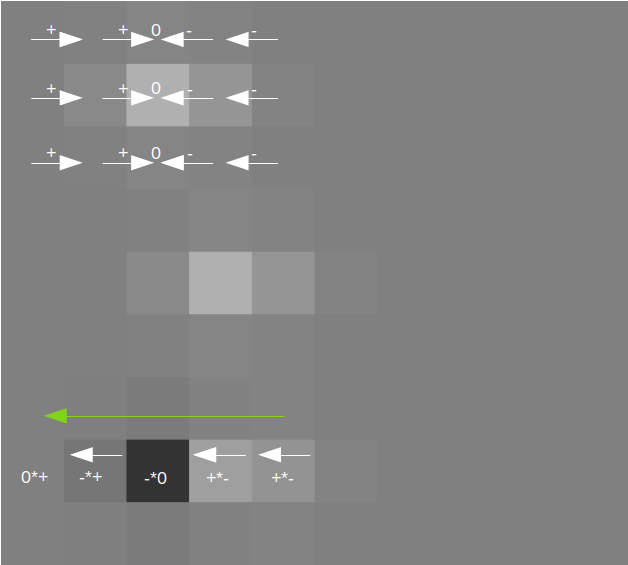
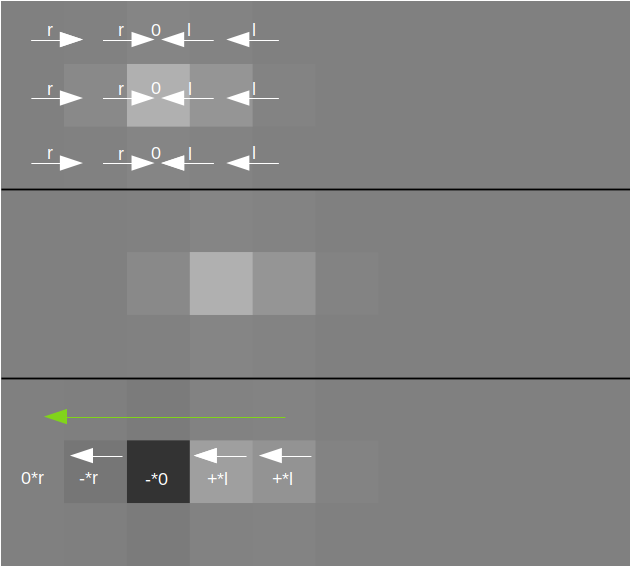
doc: update optical flow

diff --git a/doc/doc.tex b/doc/doc.tex
@@ -339,29 +339,42 @@ Lets assume we have an image I1 at time t-1 and an image I2 at time t. We know t
 
 Lucas Kanade Optical Flow tries to answer where a point moves between two images as shown in figure \ref{fig:optical_flow}. In the simplest case it just tells us where a certain pixel was in the image before and where it is now. It does that in an efficient way by using intensity gradients. This section describes how this works in an intuitive but simplified way while the next section will describe it in a more mathematical way.\\
 Let's assume the simplest scenario where we can only move in one direction (left or right). Figure \ref{fig:optical_flow_intuitive} shows this simple scenario. Let's first focus on the case where we have a small movement (a). We first calculate the intensity gradients in the template (first row). Then we calculate the intensity difference (last row) between the current image (second row) and the first image. Now we multiply the gradient times the intensity difference this will give us the direction in which we have to move. Here we assume that moving the current image to left means - and moving it to right +. Now we move in the direction of the gradient and will calculate the intensity difference again. If it increases we moved too much and we have to reduce the step size if it decreases we are fine and we can calculate the new gradient again based on the new intensity difference. After some iterations the intensity change from one iteration to the other should be minimal. We have found the horizontal movement of our image. We already describe the inverse compositional Lucas Kanade algorithm because we calculate the gradients on the template. The ``normal'' Lucas Kanade would calculate the gradients on the current image. This has the disadvantage that we need to calculate the gradients after each iteration and it's therefore less computational efficient.\\
-What we can see in \ref{fig:optical_flow_intuitive} (b) that it's impossible to track movements over bigger distances. If the patch we compare does not connect to the area where the new image has moved, we are unable to move in the right direction. As we can see it's even possible that we move in the wrong direction (b). To overcome this problem we can downsample the image as shown in (c). We only downsampled in horizontal direction for visability. In reality the whole image would be downsampled by factor 2,4,8,16, etc. This is called an optical pyramid. As we can see in (c) after we downsampled the image by factor two we have again a valid gradient which points in the right direction. The idea is that we start to optimized in the lowest level if we converge we optimize again one level higher and so on. With this idea it is possible to track flows over higher distances while still being efficient.
+What we can see in \ref{fig:optical_flow_intuitive} (b) that it's impossible to track movements over bigger distances. If the patch in the reference image does not connect to where the patch moved, we are unable to find the right gradient. As we see it's even possible that we move in the wrong direction. To reduce this problem we can downsample the image as shown in (c). For illustration reasons we reduced the resolution only in horizontal direction. In reality the whole image would be downsampled by factor 2,4,8,16, etc. The array of images with different resolutions is called an optical pyramid. As we see in (c) after we downsampled the image by factor two we have again a valid gradient which points in the right direction. The idea is that we start to optimized on the lowest level. If we converge we optimize one level up and so on. With this idea it is possible to track flows over higher distances while still being efficient.
 
 \begin{figure}[H]
   \centering
-  \subfloat[Lucas Kanade small move]{\includegraphics[height=0.2\textheight]{img/optical_flow_intuitive_1.png}}
-  \subfloat[Lucas Kanade big move]{\includegraphics[height=0.2\textheight]{img/optical_flow_intuitive_2.png}}
-  \subfloat[Lucas Kanade big move down sampled]{\includegraphics[height=0.2\textheight]{img/optical_flow_intuitive_3.png}}
-  \caption{Optical Flow Intuitive}\label{fig:optical_flow_intuitive}
+  \subfloat[Small move where we find the right gradient green]{\includegraphics[height=0.2\textheight]{img/optical_flow_intuitive_1.png}}
+	\quad
+  \subfloat[Bigger move where we find an invalid gradient red]{\includegraphics[height=0.2\textheight]{img/optical_flow_intuitive_2.png}}
+	\quad
+	\subfloat[Bigger move as in b but down sampled in horizontal direction. We find the right gradient green]{\includegraphics[height=0.2\textheight]{img/optical_flow_intuitive_3.png}}
+	\caption{Optical Flow Intuitive:\\
+		First row: reference image with gradients, Second row: current image, Last row:  diff image\\
+		l: gradient points left, r: gradient points right\\
+		+: current pixel - reference pixel < 0, +: current pixel - reference pixel > 0\\
+		-*l=r,-*r=l\\
+		Big arrow = sum of gradients (e.g. l+l+l=l, r+r+l=r)
+	}\label{fig:optical_flow_intuitive}
 \end{figure}
 
-We can extend the above scenario from a movement in one dimension easily to two dimensions as shown in figure \ref{fig:optical_flow_2d}. We simply calculate the gradient in the vertical direction as well. By doing this we can track movements in x and y direction. We easily see that not all values in the patch help to find the right gradient. Some gradients in the patch point in the wrong direction. However, in total the gradient points in the right direction. By using image pyramids we can reduce the influence of such miss matches.
+We extend the above scenario from a one dimensional movement to a two dimensional movement as shown in figure \ref{fig:optical_flow_2d}. We calculate the gradient in the vertical direction as well. By doing this we can track movements in x and y direction. We see that not all values in the patch help to find the right gradient. Some gradients in the patch point in the wrong direction. However, in total the gradient points in the right direction. By using image pyramids we can again reduce the influence of such miss matches.
 \begin{figure}[H]
   \includegraphics[width=1.0\textwidth]{img/optical_flow_2d.png}
-  \caption{Optical Flow Intuitive 2D: +: current-previous intensity > 0, -: current-previous intensity < 0, u: gradient points up, d: gradient points down, l: gradient points left, r: gradient points right, red: wrong direction, green: right direction, blue: no influence, yellow arrow: final gradient}\label{fig:optical_flow_2d}
+  \caption{Optical Flow Intuitive 2D:\\
+		First column: reference image with gradients, Second column: current image, Third column: diff image\\
+		+: current-previous intensity > 0, -: current-previous intensity < 0\\
+		u: gradient points up, d: gradient points down\\
+		l: gradient points left, r: gradient points right\\
+		red: wrong direction, green: right direction, blue: no influence, yellow arrow: final gradient}\label{fig:optical_flow_2d}
 \end{figure}
 
-We showed that optical flow can track two dimensional movements. However, it doesn't track rotations and shearing. This will introduce dependencies between x and y movements which become non-linear. In the next section we extend the intuitive approach so that we can solve non-linear problems.
+We showed that optical flow can track two dimensional movements. However, it doesn't track rotations and shearing. This will introduce dependencies between x and y movements which become non-linear. In the next section we extend the intuitive approach so that we can solve non-linear problems. Unfortunately, this can't be described in an intuitive way. Therefore, it will be described mathematically.
 
 \section{Lucas Kanade Mathematical}
 
-In the previous section we showed the basic idea of optical flow. It is oversimplified and can only track movements in x and y direction. In this section we extend this idea so that more complicated movements can be tracked.\\
-
+In the previous section we showed the basic idea of optical flow. It is oversimplified and can only track movements in x and y direction. In this section we extend the idea to more complicated movements.\\
 Instead of linear movements in x and y direction we want to find a warp matrix which describes a affine transformation of a patch from one image to the other (equation \ref{eq:lk_warp}).
+
 \begin{equation}\label{eq:lk_warp}
   p=\begin{pmatrix}
     p_{11} & p_{12} & p_{13} \\
